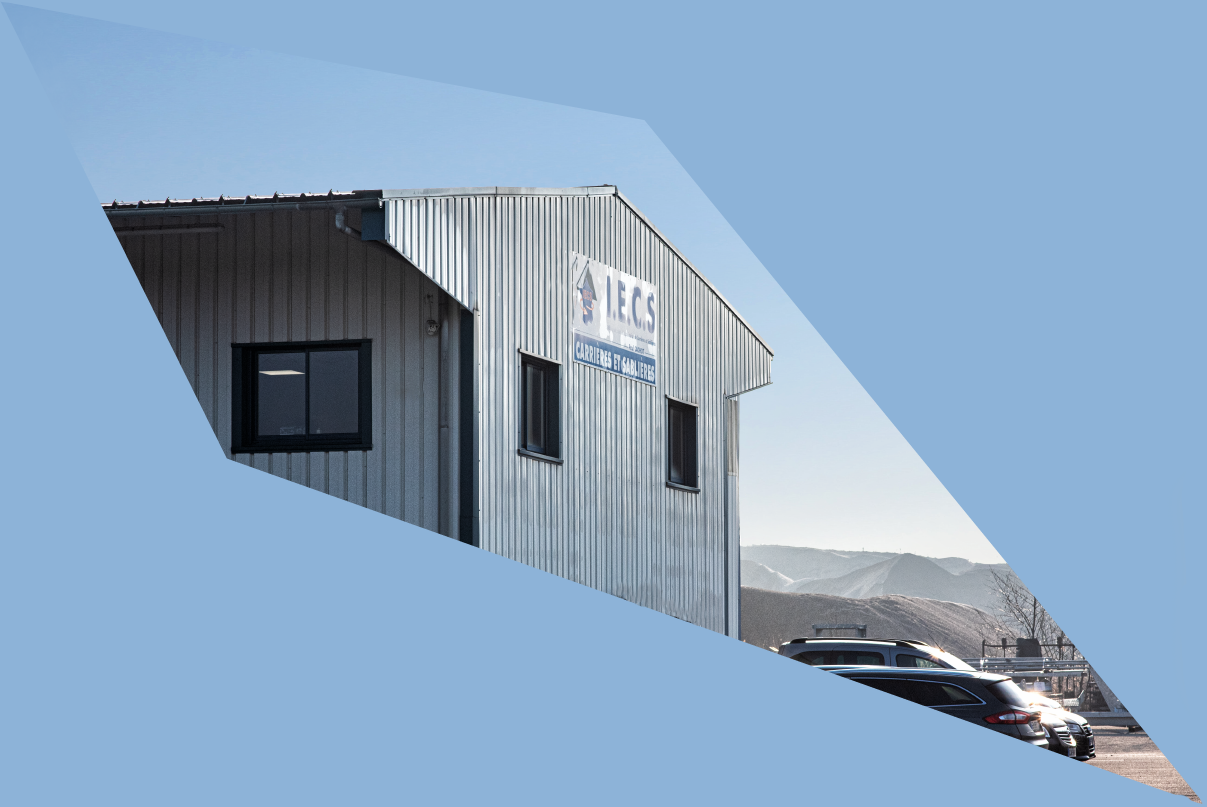
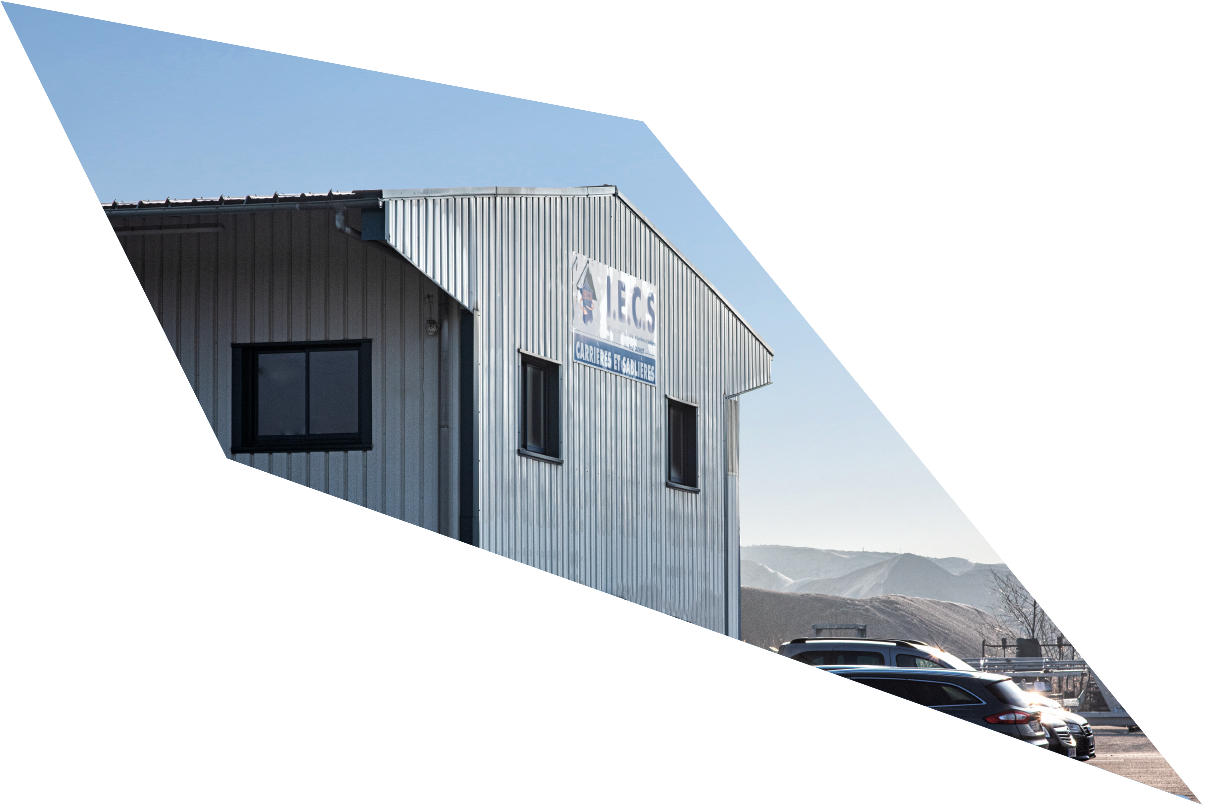
Color changes.

diff --git a/index.html b/index.html
@@ -24,15 +24,15 @@
                 </g>
               </svg>
           </div>
-          <div class="illustration" data-rellax-speed="2">
+          <div id="facade-matin" data-rellax-speed="2">
             <img src="./assets/images/facade_matin2.png" alt="">
           </div>
           <p id="subtitle">Installation et Exploitation de Carrières et de Sablières</p>
         </div>
-        <div class="activity rellax" data-rellax-speed="4" data-rellax-zindex="0" id="fabrication">FABRICATION</div>
-        <div class="activity rellax" data-rellax-speed="8" id="montage">MONTAGE</div>
-        <div class="activity rellax" data-rellax-speed="12" id="laser">DECOUPE LASER</div>
-        <div class="activity rellax" data-rellax-speed="16" id="maintenance">MAINTENANCE</div>
+        <div class="activity rellax" id="fabrication">FABRICATION</div>
+        <div class="activity rellax" id="montage">MONTAGE</div>
+        <div class="activity rellax" id="laser">DECOUPE LASER</div>
+        <div class="activity rellax" id="maintenance">MAINTENANCE</div>
     </main>
     <footer>
         <p>@litjiltales<span>2019</span></p>

diff --git a/styles/main.css b/styles/main.css
@@ -1,6 +1,6 @@
 :root {
-    --font: #FFF;
-    --fontDarker: rgb(3, 3, 3);
+    --bg: ##f8f8f8;
+    --logo: #0074D9;
     --gradientFrom: #FFEBDA;
     --gradientTo: #FFAE6D;
     /*ffbc42  24BEDB;*/
@@ -25,7 +25,7 @@ html {
 body {
     display: flex;
     flex-direction: column;
-    background-color: #8DB3D8;
+    background-color: var(--bg);
 }
 
 #title {
@@ -49,7 +49,7 @@ h2 {
 }
 
 #logo {
-    fill: #060186;
+    fill: var(--logo);
     width: 100%;
     grid-column-start: 2;
     grid-column-end: 4;
@@ -59,20 +59,20 @@ h2 {
 
 #subtitle {
     font-size: 2rem;
-    color: #060186;
+    color: var(--logo);
     grid-column-start: 2;
     grid-column-end: 6;
     grid-row-start: 4;
 }
 
-.illustration {
+#facade-matin {
     grid-column-start: 4;
     grid-column-end: 7;
     grid-row-start: 2;
     grid-row-end: 4;
 }
 
-.illustration img {
+#facade-matin img {
     width: 100%;
 }
 
